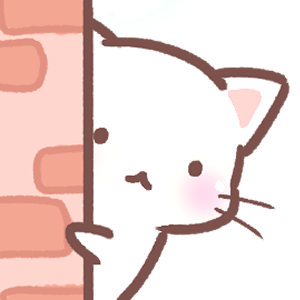
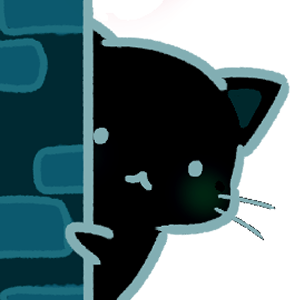
feat(0401): update color

diff --git a/main/config/satou_0409_0401.css b/main/config/satou_0409_0401.css
@@ -9,7 +9,7 @@
     /* 접속자 수 뒤 문구 */
     --postFix: "명잉 칭증냥 멍링 뽕능 중";
     /*글자색*/
-    --textColor: #83686c;
+    --textColor: #7c9793;
     --readTextColor: #adadad;
 
     /*일반모드 파라미터*/
@@ -21,11 +21,11 @@
     --backgroundImage: url(https://now-start.github.io/twitchCss/resource/common/normal/stars1.png);
     --backgroundImage2: url(https://now-start.github.io/twitchCss/resource/common/normal/stars2.png);
     /* 색상 (줄) */
-    --color: #ffa6b2;
+    --color: #00564d;
     /* 색상 (노티 배경) */
-    --bgcolor: #ffebb1;
+    --bgcolor: #00144d;
     /* 색상 (게시판 배경)*/
-    --bgcolor2: #fff6d9;
+    --bgcolor2: #000926;
 
     /*다크모드 파라미터*/
     --headerImgDm: url(https://now-start.github.io/twitchCss/resource/satou_0409_0401/headerImgDm.png);
